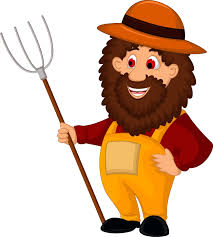
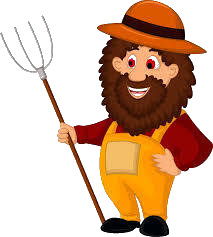
replaced all images with new transparent background images

diff --git a/stylesheet.css b/stylesheet.css
@@ -3,6 +3,8 @@ body {
 }
 #barn{
 	z-index: ;
+	height: 500px;
+	width: 500px;
 }
 #cow {
 	z-index: ;
